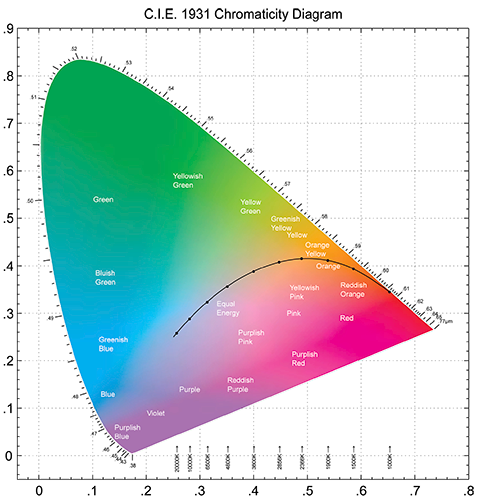
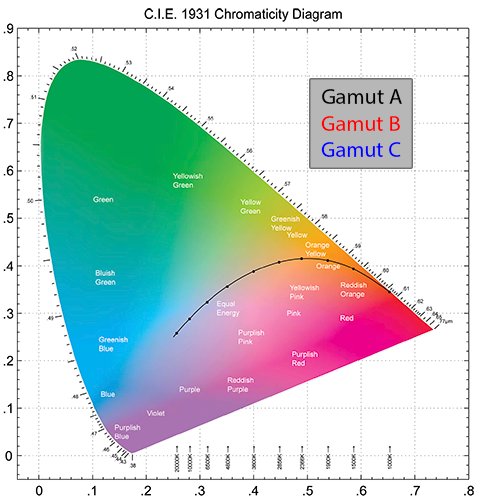
Updated chromaticity diagram to display Philips Hue color gamuts

Changed region(s): [[0.625, 0.1503, 0.875, 0.3607]]

diff --git a/TimeGiver Demo.html b/TimeGiver Demo.html
@@ -1359,6 +1359,30 @@ function blueyellowlinedrawer ({time}) {
       ctx_xyvis.fillText("📍", xyvis_white_x, xyvis_white_y);
       ctx_xyvis.fillText("📍", xyvis_yellow_x, xyvis_yellow_y);
       ctx_xyvis.fillText("📍", xyvis_blue_x, xyvis_blue_y);
+      ctx_xyvis.beginPath();
+      ctx_xyvis.lineWidth = 2;
+      ctx_xyvis.strokeStyle = "blue";
+      ctx_xyvis.moveTo(121, 121);
+      ctx_xyvis.lineTo(400, 304);
+      ctx_xyvis.lineTo(110, 432);
+      ctx_xyvis.lineTo(121, 121);
+      ctx_xyvis.stroke();
+      ctx_xyvis.beginPath();
+      ctx_xyvis.lineWidth = 2;
+      ctx_xyvis.strokeStyle = "red";
+      ctx_xyvis.moveTo(247, 209);
+      ctx_xyvis.lineTo(387, 302);
+      ctx_xyvis.lineTo(119, 434);
+      ctx_xyvis.lineTo(247, 209);
+      ctx_xyvis.stroke();
+      ctx_xyvis.beginPath();
+      ctx_xyvis.lineWidth = 2;
+      ctx_xyvis.strokeStyle = "black";
+      ctx_xyvis.moveTo(143, 117);
+      ctx_xyvis.lineTo(411, 316);
+      ctx_xyvis.lineTo(102, 415);
+      ctx_xyvis.lineTo(143, 117);
+      ctx_xyvis.stroke();
       return;}
 }
 
@@ -1607,8 +1631,8 @@ Your browser does not support the canvas element.
     <input type="time" id="bed_time_var" value="22:00" onchange="lineremover()"><div class="tooltip"> Bed Time</input><span class="tooltiptext">The time you actually plan to be in bed, allowing some time for the lights be dim before you go to bed.</span></div><br>  
     <div class="slidecontainer"><input type="range" min="0" max="1" value="1" step = "0.01" class="slider" id="max_bright_var" onchange="lineremover()"><div class="tooltip">Maximum Brightness: <span id="max_bright_label"></span> %</input><span class="tooltiptext">The brightest you want your lights to get at midday, which is 100% for most lights.</span></div></div><br>
     <div class="slidecontainer"><input type="range" min="0" max="1" value="0.05" step = "0.01" class="slider" id="min_bright_var" onchange="lineremover()"><div class="tooltip">Minimum Brightness: <span id="min_bright_label"></span> %</input><span class="tooltiptext">The dimmest you want your lights to get in the late evening and overnight. Think of this as your nightlight level, just enough light to safely use the bathroom or grab a snack.</span></div></div><br>
-    <div class="slidecontainer"><input type="range" min="1000" max="12000" value="6000" step = "100" class="slider" id="max_CCT_var" onchange="lineremover()"><div class="tooltip">Maximum Color Temperature: <span id="max_CCT_label"></span> K</input><span class="tooltiptext">The coolest (or bluest) you want your lights to get at midday. Higher is cooler, and most lights max out around 6500K.</span></div></div><br>
-    <div class="slidecontainer"><input type="range" min="1000" max="12000" value="2700" step = "100" class="slider" id="min_CCT_var" onchange="lineremover()"><div class="tooltip">Minimum Color Temperature: <span id="min_CCT_label"></span> K</input><span class="tooltiptext">The warmest (or reddest) you want your lights to get in the mornings and evenings. Lower is warmer, and most lights bottom out around 2700K.</span></div></div><br>
+    <div class="slidecontainer"><input type="range" min="1000" max="20000" value="6000" step = "100" class="slider" id="max_CCT_var" onchange="lineremover()"><div class="tooltip">Maximum Color Temperature: <span id="max_CCT_label"></span> K</input><span class="tooltiptext">The coolest (or bluest) you want your lights to get at midday. Higher is cooler, and most lights max out around 6500K.</span></div></div><br>
+    <div class="slidecontainer"><input type="range" min="1000" max="20000" value="2700" step = "100" class="slider" id="min_CCT_var" onchange="lineremover()"><div class="tooltip">Minimum Color Temperature: <span id="min_CCT_label"></span> K</input><span class="tooltiptext">The warmest (or reddest) you want your lights to get in the mornings and evenings. Lower is warmer, and most lights bottom out around 2700K.</span></div></div><br>
     </div>
 
     <p onclick="toggleelement('generalpurposeoptionalsettings'); togglearrow('generalpurposeoptionalsettingsuparrow'); togglearrow('generalpurposeoptionalsettingsdownarrow')" class="settingheader2">Settings some people may want to change<span  id ="generalpurposeoptionalsettingsuparrow" style="display: none;">⬆</span><span  id ="generalpurposeoptionalsettingsdownarrow" style="display: inline-block;">⬇</span></p>
@@ -1648,8 +1672,8 @@ Your browser does not support the canvas element.
     <div class="slidecontainer"><input type="range" min="0" max="1" value="0.15" step = "0.01" class="slider" id="min_bright_yellow_var" onchange="lineremover()"><div class="tooltip">Minimum Yellow Brightness: <span id="min_bright_yellow_label"></span> %</input><span class="tooltiptext">The dimmest you want your yellow lights to get in the late evening and overnight. Think of this as your nightlight level, just enough light to safely use the bathroom or grab a snack. Setting this higher than the minimum blue brightness mimics direct sunlight in the late evening.</span></div></div><br>
     <div class="slidecontainer"><input type="range" min="0" max="1" value="1" step = "0.01" class="slider" id="max_bright_blue_var" onchange="lineremover()"><div class="tooltip">Maximum Blue Brightness: <span id="max_bright_blue_label"></span> %</input><span class="tooltiptext">The brightest you want your blue lights to get at midday, which is 100% for most lights. Setting this higher than the maximum yellow brightness mimics indirect sunlight at midday.</span></div></div><br>
     <div class="slidecontainer"><input type="range" min="0" max="1" value="0.10" step = "0.01" class="slider" id="min_bright_blue_var" onchange="lineremover()"><div class="tooltip">Minimum Blue Brightness: <span id="min_bright_blue_label"></span> %</input><span class="tooltiptext">The dimmest you want your blue lights to get in the late evening and overnight. Think of this as your nightlight level, just enough light to safely use the bathroom or grab a snack. Setting this higher than the minimum yellow brightness mimics indirect sunlight in the late evening.</span></div></div><br>
-    <div class="slidecontainer"><input type="range" min="0" max="8000" value="4800" step = "100" class="slider" id="max_scatdist_var" onchange="lineremover()"><div class="tooltip">Maximum Blue-Yellow Scatter Distance: <span id="max_scatdist_label"></span> K</input><span class="tooltiptext">How extreme the contrast between your blue and yellow lights will be at midday. Higher numbers make for more saturated colors at midday.</span></div></div><br>
-    <div class="slidecontainer"><input type="range" min="0" max="8000" value="2000" step = "100" class="slider" id="min_scatdist_var" onchange="lineremover()"><div class="tooltip">Minimum Blue-Yellow Scatter Distance: <span id="min_scatdist_label"></span> K</input><span class="tooltiptext">How extreme the contrast between your blue and yellow lights will be in the early morning and late evening. Higher numbers make for more saturated colors at sunrise and sunset.</span></div></div><br>
+    <div class="slidecontainer"><input type="range" min="0" max="20000" value="4800" step = "100" class="slider" id="max_scatdist_var" onchange="lineremover()"><div class="tooltip">Maximum Blue-Yellow Scatter Distance: <span id="max_scatdist_label"></span> K</input><span class="tooltiptext">How extreme the contrast between your blue and yellow lights will be at midday. Higher numbers make for more saturated colors at midday.</span></div></div><br>
+    <div class="slidecontainer"><input type="range" min="0" max="20000" value="2000" step = "100" class="slider" id="min_scatdist_var" onchange="lineremover()"><div class="tooltip">Minimum Blue-Yellow Scatter Distance: <span id="min_scatdist_label"></span> K</input><span class="tooltiptext">How extreme the contrast between your blue and yellow lights will be in the early morning and late evening. Higher numbers make for more saturated colors at sunrise and sunset.</span></div></div><br>
     <div class="slidecontainer"><input type="range" min="-30" max="60" value="20" step = "1" class="slider" id="max_scatangshift_var" onchange="lineremover()"><div class="tooltip">Maximum Blue-Yellow Angle Shift: <span id="max_scatangshift_label"></span> degrees</input><span class="tooltiptext">How much the yellow lights are shifted toward deeper yellows and your blue lights are shifted toward deeper blues in the early morning and late evening. Higher numbers make for more yellow sunsets, but numbers too high can bring out greens and purples beyond a typical sunset. Lower numbers make for more white or pink sunsets.</span></div></div><br>
     <div class="slidecontainer"><input type="range" min="-30" max="60" value="0" step = "1" class="slider" id="min_scatangshift_var" onchange="lineremover()"><div class="tooltip">Minimum Blue-Yellow Angle Shift: <span id="min_scatangshift_label"></span> degrees</input><span class="tooltiptext">How much the yellow lights are shifted toward deeper yellows and your blue lights are shifted toward deeper blues around midday. Higher numbers make for more dramatic, colorful middays, as in the region around a wildfire. This should usually be left at 0.</span></div></div><br>
     </div>

diff --git a/index.html b/index.html
@@ -1359,6 +1359,30 @@ function blueyellowlinedrawer ({time}) {
       ctx_xyvis.fillText("📍", xyvis_white_x, xyvis_white_y);
       ctx_xyvis.fillText("📍", xyvis_yellow_x, xyvis_yellow_y);
       ctx_xyvis.fillText("📍", xyvis_blue_x, xyvis_blue_y);
+      ctx_xyvis.beginPath();
+      ctx_xyvis.lineWidth = 2;
+      ctx_xyvis.strokeStyle = "blue";
+      ctx_xyvis.moveTo(121, 121);
+      ctx_xyvis.lineTo(400, 304);
+      ctx_xyvis.lineTo(110, 432);
+      ctx_xyvis.lineTo(121, 121);
+      ctx_xyvis.stroke();
+      ctx_xyvis.beginPath();
+      ctx_xyvis.lineWidth = 2;
+      ctx_xyvis.strokeStyle = "red";
+      ctx_xyvis.moveTo(247, 209);
+      ctx_xyvis.lineTo(387, 302);
+      ctx_xyvis.lineTo(119, 434);
+      ctx_xyvis.lineTo(247, 209);
+      ctx_xyvis.stroke();
+      ctx_xyvis.beginPath();
+      ctx_xyvis.lineWidth = 2;
+      ctx_xyvis.strokeStyle = "black";
+      ctx_xyvis.moveTo(143, 117);
+      ctx_xyvis.lineTo(411, 316);
+      ctx_xyvis.lineTo(102, 415);
+      ctx_xyvis.lineTo(143, 117);
+      ctx_xyvis.stroke();
       return;}
 }
 
@@ -1607,8 +1631,8 @@ Your browser does not support the canvas element.
     <input type="time" id="bed_time_var" value="22:00" onchange="lineremover()"><div class="tooltip"> Bed Time</input><span class="tooltiptext">The time you actually plan to be in bed, allowing some time for the lights be dim before you go to bed.</span></div><br>  
     <div class="slidecontainer"><input type="range" min="0" max="1" value="1" step = "0.01" class="slider" id="max_bright_var" onchange="lineremover()"><div class="tooltip">Maximum Brightness: <span id="max_bright_label"></span> %</input><span class="tooltiptext">The brightest you want your lights to get at midday, which is 100% for most lights.</span></div></div><br>
     <div class="slidecontainer"><input type="range" min="0" max="1" value="0.05" step = "0.01" class="slider" id="min_bright_var" onchange="lineremover()"><div class="tooltip">Minimum Brightness: <span id="min_bright_label"></span> %</input><span class="tooltiptext">The dimmest you want your lights to get in the late evening and overnight. Think of this as your nightlight level, just enough light to safely use the bathroom or grab a snack.</span></div></div><br>
-    <div class="slidecontainer"><input type="range" min="1000" max="12000" value="6000" step = "100" class="slider" id="max_CCT_var" onchange="lineremover()"><div class="tooltip">Maximum Color Temperature: <span id="max_CCT_label"></span> K</input><span class="tooltiptext">The coolest (or bluest) you want your lights to get at midday. Higher is cooler, and most lights max out around 6500K.</span></div></div><br>
-    <div class="slidecontainer"><input type="range" min="1000" max="12000" value="2700" step = "100" class="slider" id="min_CCT_var" onchange="lineremover()"><div class="tooltip">Minimum Color Temperature: <span id="min_CCT_label"></span> K</input><span class="tooltiptext">The warmest (or reddest) you want your lights to get in the mornings and evenings. Lower is warmer, and most lights bottom out around 2700K.</span></div></div><br>
+    <div class="slidecontainer"><input type="range" min="1000" max="20000" value="6000" step = "100" class="slider" id="max_CCT_var" onchange="lineremover()"><div class="tooltip">Maximum Color Temperature: <span id="max_CCT_label"></span> K</input><span class="tooltiptext">The coolest (or bluest) you want your lights to get at midday. Higher is cooler, and most lights max out around 6500K.</span></div></div><br>
+    <div class="slidecontainer"><input type="range" min="1000" max="20000" value="2700" step = "100" class="slider" id="min_CCT_var" onchange="lineremover()"><div class="tooltip">Minimum Color Temperature: <span id="min_CCT_label"></span> K</input><span class="tooltiptext">The warmest (or reddest) you want your lights to get in the mornings and evenings. Lower is warmer, and most lights bottom out around 2700K.</span></div></div><br>
     </div>
 
     <p onclick="toggleelement('generalpurposeoptionalsettings'); togglearrow('generalpurposeoptionalsettingsuparrow'); togglearrow('generalpurposeoptionalsettingsdownarrow')" class="settingheader2">Settings some people may want to change<span  id ="generalpurposeoptionalsettingsuparrow" style="display: none;">⬆</span><span  id ="generalpurposeoptionalsettingsdownarrow" style="display: inline-block;">⬇</span></p>
@@ -1648,8 +1672,8 @@ Your browser does not support the canvas element.
     <div class="slidecontainer"><input type="range" min="0" max="1" value="0.15" step = "0.01" class="slider" id="min_bright_yellow_var" onchange="lineremover()"><div class="tooltip">Minimum Yellow Brightness: <span id="min_bright_yellow_label"></span> %</input><span class="tooltiptext">The dimmest you want your yellow lights to get in the late evening and overnight. Think of this as your nightlight level, just enough light to safely use the bathroom or grab a snack. Setting this higher than the minimum blue brightness mimics direct sunlight in the late evening.</span></div></div><br>
     <div class="slidecontainer"><input type="range" min="0" max="1" value="1" step = "0.01" class="slider" id="max_bright_blue_var" onchange="lineremover()"><div class="tooltip">Maximum Blue Brightness: <span id="max_bright_blue_label"></span> %</input><span class="tooltiptext">The brightest you want your blue lights to get at midday, which is 100% for most lights. Setting this higher than the maximum yellow brightness mimics indirect sunlight at midday.</span></div></div><br>
     <div class="slidecontainer"><input type="range" min="0" max="1" value="0.10" step = "0.01" class="slider" id="min_bright_blue_var" onchange="lineremover()"><div class="tooltip">Minimum Blue Brightness: <span id="min_bright_blue_label"></span> %</input><span class="tooltiptext">The dimmest you want your blue lights to get in the late evening and overnight. Think of this as your nightlight level, just enough light to safely use the bathroom or grab a snack. Setting this higher than the minimum yellow brightness mimics indirect sunlight in the late evening.</span></div></div><br>
-    <div class="slidecontainer"><input type="range" min="0" max="8000" value="4800" step = "100" class="slider" id="max_scatdist_var" onchange="lineremover()"><div class="tooltip">Maximum Blue-Yellow Scatter Distance: <span id="max_scatdist_label"></span> K</input><span class="tooltiptext">How extreme the contrast between your blue and yellow lights will be at midday. Higher numbers make for more saturated colors at midday.</span></div></div><br>
-    <div class="slidecontainer"><input type="range" min="0" max="8000" value="2000" step = "100" class="slider" id="min_scatdist_var" onchange="lineremover()"><div class="tooltip">Minimum Blue-Yellow Scatter Distance: <span id="min_scatdist_label"></span> K</input><span class="tooltiptext">How extreme the contrast between your blue and yellow lights will be in the early morning and late evening. Higher numbers make for more saturated colors at sunrise and sunset.</span></div></div><br>
+    <div class="slidecontainer"><input type="range" min="0" max="20000" value="4800" step = "100" class="slider" id="max_scatdist_var" onchange="lineremover()"><div class="tooltip">Maximum Blue-Yellow Scatter Distance: <span id="max_scatdist_label"></span> K</input><span class="tooltiptext">How extreme the contrast between your blue and yellow lights will be at midday. Higher numbers make for more saturated colors at midday.</span></div></div><br>
+    <div class="slidecontainer"><input type="range" min="0" max="20000" value="2000" step = "100" class="slider" id="min_scatdist_var" onchange="lineremover()"><div class="tooltip">Minimum Blue-Yellow Scatter Distance: <span id="min_scatdist_label"></span> K</input><span class="tooltiptext">How extreme the contrast between your blue and yellow lights will be in the early morning and late evening. Higher numbers make for more saturated colors at sunrise and sunset.</span></div></div><br>
     <div class="slidecontainer"><input type="range" min="-30" max="60" value="20" step = "1" class="slider" id="max_scatangshift_var" onchange="lineremover()"><div class="tooltip">Maximum Blue-Yellow Angle Shift: <span id="max_scatangshift_label"></span> degrees</input><span class="tooltiptext">How much the yellow lights are shifted toward deeper yellows and your blue lights are shifted toward deeper blues in the early morning and late evening. Higher numbers make for more yellow sunsets, but numbers too high can bring out greens and purples beyond a typical sunset. Lower numbers make for more white or pink sunsets.</span></div></div><br>
     <div class="slidecontainer"><input type="range" min="-30" max="60" value="0" step = "1" class="slider" id="min_scatangshift_var" onchange="lineremover()"><div class="tooltip">Minimum Blue-Yellow Angle Shift: <span id="min_scatangshift_label"></span> degrees</input><span class="tooltiptext">How much the yellow lights are shifted toward deeper yellows and your blue lights are shifted toward deeper blues around midday. Higher numbers make for more dramatic, colorful middays, as in the region around a wildfire. This should usually be left at 0.</span></div></div><br>
     </div>
